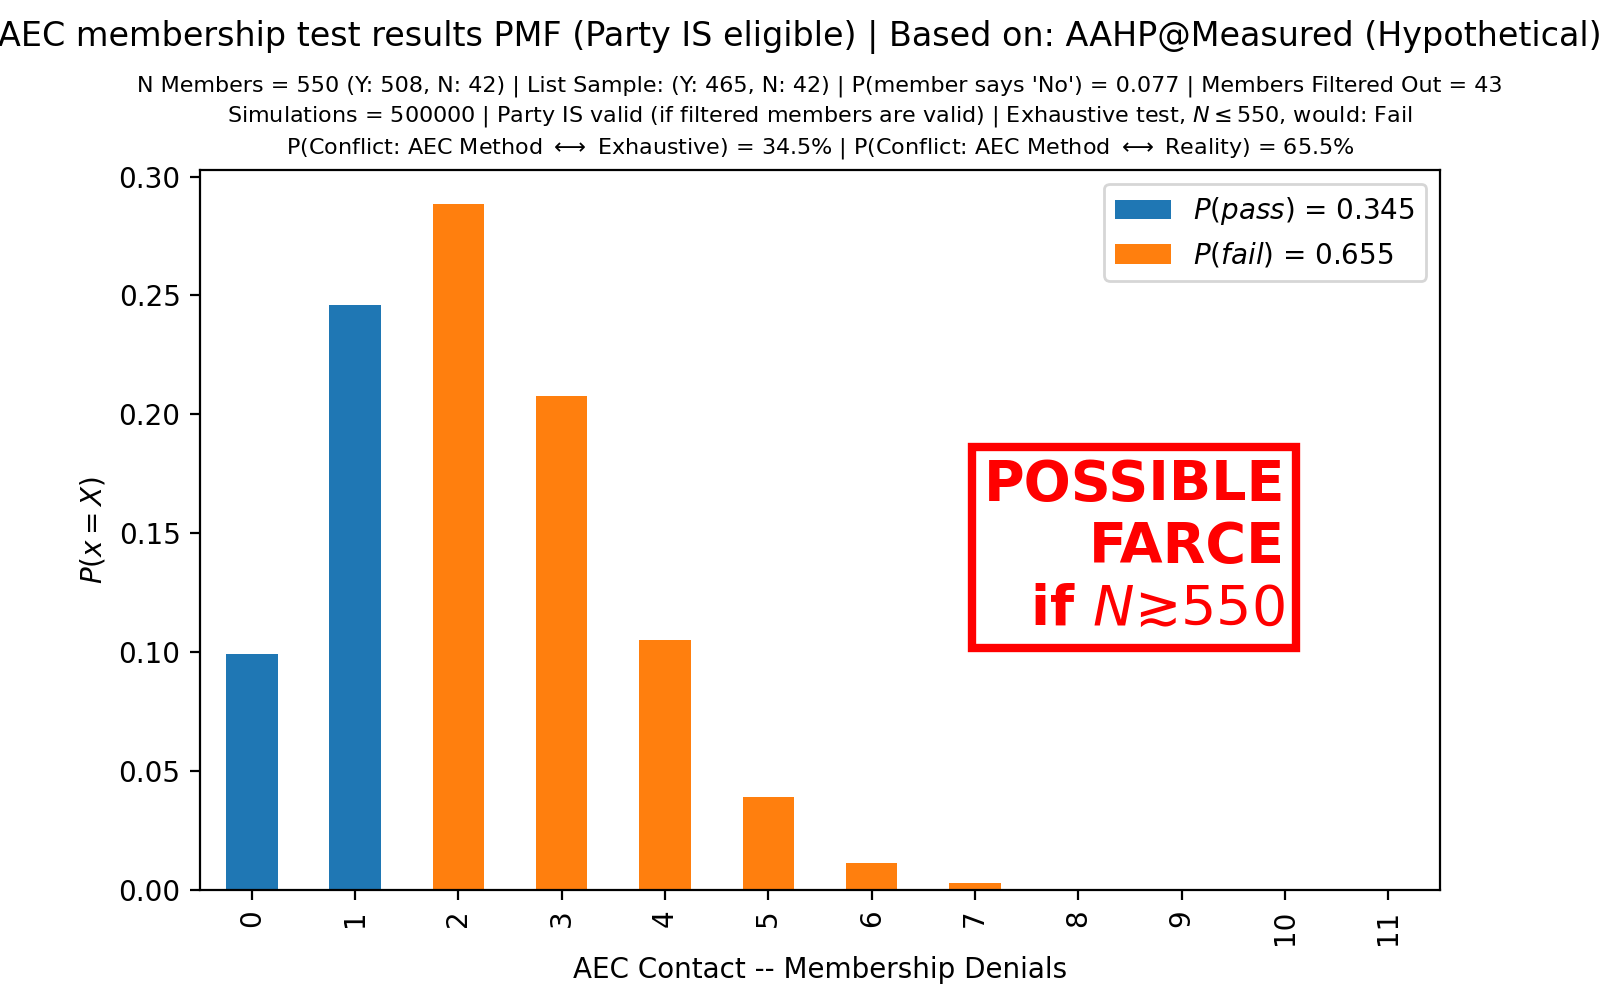
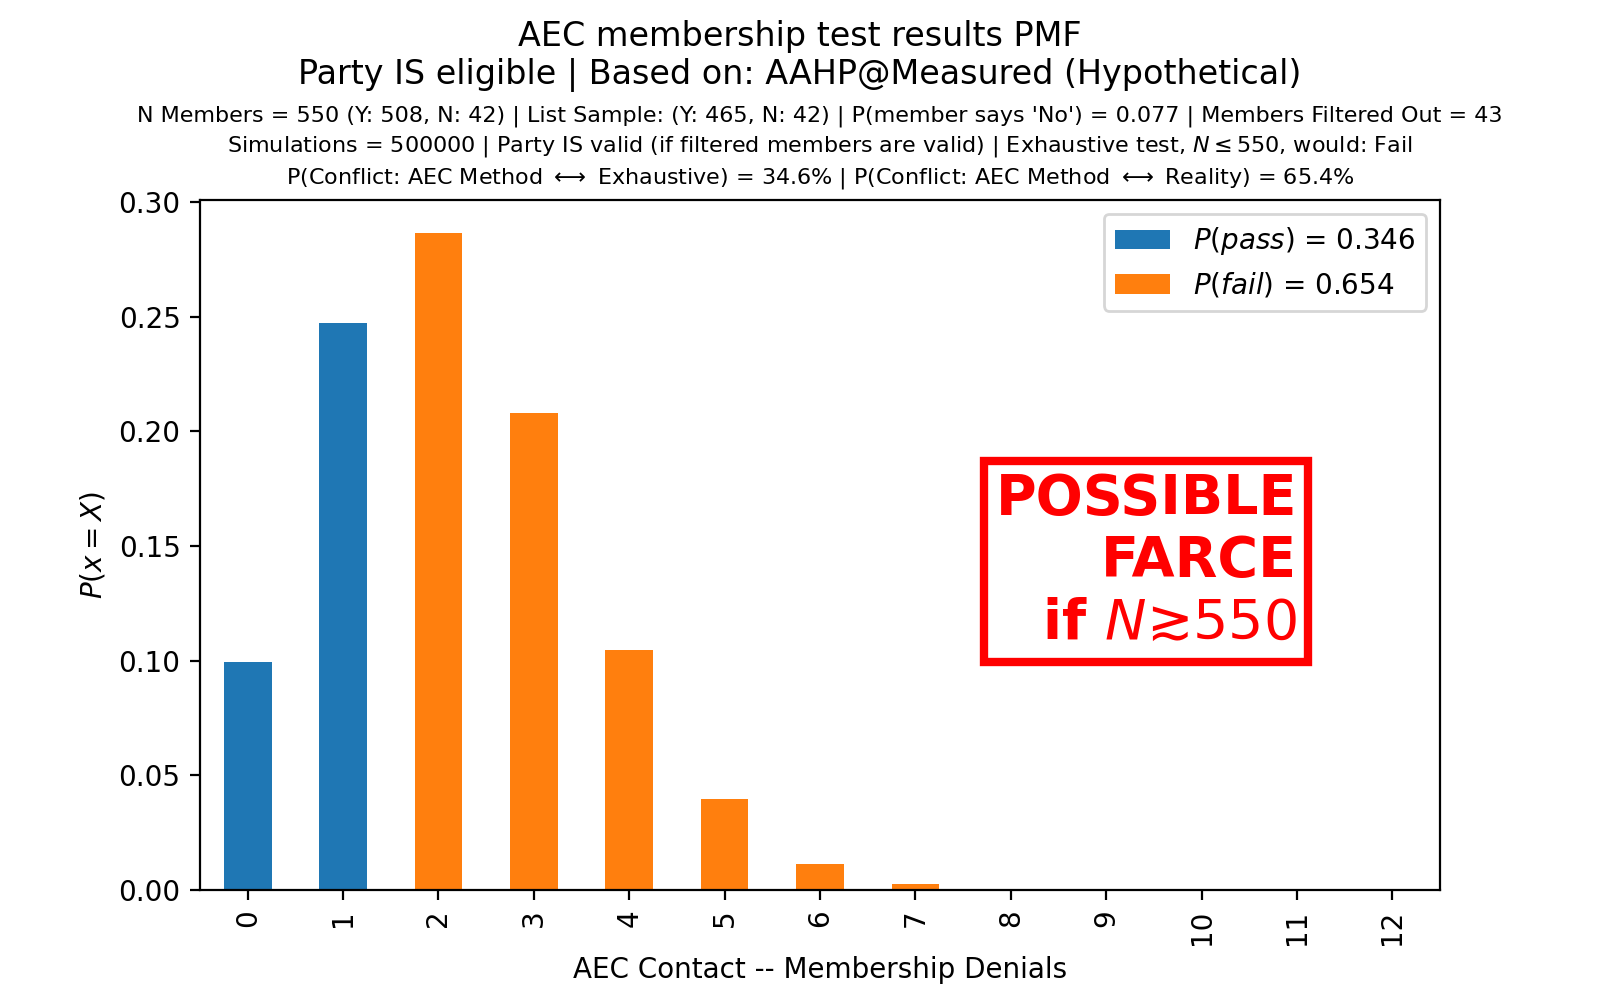
well, I think we can conclude that this shit's fucked.

diff --git a/main.py b/main.py
@@ -135,6 +135,19 @@ def lookup_aec_testing_parameters(sample_size, members_required: int):
     541 47 6
     548 50 7
     550 50 7
+    https://web.archive.org/web/20110220143705/http://www.aec.gov.au/Parties_and_Representatives/Party_Registration/Registration_Decisions/registration-tests.htm
+    > The table below is an extract from a table based on a formula provided by the Australian Bureau of Statistics, giving approximately a 10% risk of refusing a party which has 500 members and a 2% risk of registering a party with only 400 members.
+    Eligible membership 	Size of random sample 	Denials permitted 	Confirmations required
+    500 	18 	0 	18
+    505 	21 	1 	20
+    515 	26 	2 	24
+    520 	29 	2 	27
+    525 	32 	3 	29
+    530 	35 	4 	31
+    535 	37 	4 	33
+    540 	40 	5 	35
+    545 	43 	5 	38
+    550 	47 	6 	41
     '''
     testing_ranges = {
         1500: AEC_TESTING_RANGES,
@@ -170,8 +183,8 @@ class RunSpec:
         return self.total_members, self.failure_rate, self.sample_size, self.n_members_removed
 
     def title_line(self, party_name: Optional[str] = None):
-        is_valid = self.total_members * (1 - self.failure_rate) >= self.min_list_limit
-        return f"AEC membership test results PMF (Party {if_else(is_valid, 'IS', 'IS NOT')} eligible)" + if_else(party_name, f" | Based on: {party_name}", "")
+        is_valid = self.n_real_members >= self.min_list_limit
+        return f"AEC membership test results PMF\nParty {if_else(is_valid, 'IS', 'IS NOT')} eligible" + if_else(party_name, f" | Based on: {party_name}", "")
 
     @property
     def max_list_limit(self):
@@ -328,7 +341,7 @@ def run(trial_pool: pool.Pool, n_trials: int, run_spec: RunSpec, graph_title=Non
          ]) \
         # + "\n"
     plt.title(title, fontdict=dict(fontsize=8), linespacing=1.4)
-    plt.subplots_adjust(top=0.83)
+    plt.subplots_adjust(top=0.80)
     plt.legend()
 
     if is_farce:
@@ -419,10 +432,8 @@ def aec(n_trials, show, jobs, force):
     # _run(RunSpec(511*3, 11/511, 511*3, 0), party_name="SBP@Threshold (Scaled)")
 
     # https://aec.gov.au/Parties_and_Representatives/Party_Registration/Deregistered_parties/files/statement-of-reasons-child-protection-party-s137-deregistration.pdf
-    # add 20% bonus b/c they were at limit of 550
-    # _run(RunSpec(550*3 * 12//10, 10/50, 550*3, 2*3), party_name="CPP@Measured (Scaled + Limit Bonus)")
-    # _run(RunSpec(550*3 * 12//10, 50/550, 550*3, 2*3), party_name="CPP@Threshold (Scaled + Limit Bonus)")
-    # _run(RunSpec(550 * 12//10, 10/50, 550, 2, 500), party_name="CPP@Measured", farce_extra="SUSPECTED")
+    # add bonus b/c they were at limit of 550
+    # 2021
     _run(RunSpec(550 * 91//80, 10/50, 550, 2, 500), party_name="CPP@Measured", farce_extra="SUSPECTED")
 
     # https://aec.gov.au/Parties_and_Representatives/Party_Registration/Deregistered_parties/files/statement-of-reasons-australian-workers-party-s-137-deregistration.pdf
@@ -432,11 +443,8 @@ def aec(n_trials, show, jobs, force):
     # # _run(RunSpec(550*3 * 12//10, xxx/550, 550*3, xx*3), party_name="AWP@Threshold (Scaled + Limit Bonus)")
 
     # https://aec.gov.au/Parties_and_Representatives/Party_Registration/Deregistered_parties/files/statement-of-reasons-seniors-united-party-of-australia-s137-deregistration.pdf
-    # add 20% bonus for hitting limit
-    # _run(RunSpec(550*3 * 12//10, 9/44, 550*3, 11*3), party_name="SUP@Measured (Scaled+Limit Bonus)")
-    # _run(RunSpec(550*3 * 12//10, 5/55, 550*3, 11*3), party_name="SUP@Threshold (Scaled+Limit Bonus)")
-    # _run(RunSpec(550 * 12//10, 9/44, 550, 11, 500), party_name="SUP@Measured", farce_extra="SUSPECTED")
-    # _run(RunSpec(550 * 92//80, 9/44, 550, 11, 500), party_name="SUP@Measured", farce_extra="SUSPECTED")
+    # add bonus for hitting limit
+    # 2021
     _run(RunSpec(629, 9/44, 550, 11, 500), party_name="SUP@Measured", farce_extra="SUSPECTED")
 
     # mb (but unlikely with so many denials): no free tax (https://www.aec.gov.au/Parties_and_Representatives/Party_Registration/Registration_Decisions/2019/statement-of-reasons-the-no-tax-free-electricity.com-refusal.pdf)
@@ -449,13 +457,13 @@ def aec(n_trials, show, jobs, force):
 
     # https://www.aec.gov.au/Parties_and_Representatives/Party_Registration/Registration_Decisions/2017/sor-australian-affordable-housing-party.pdf
     # possible farce initially
-    # note:
+    # note: table of max denials might have been different
     # final list between 511 and 503? avg 507
     _run(RunSpec(550, 2/26, 550, 550-507, 500), party_name="AAHP@Measured (Hypothetical)", farce_extra="POSSIBLE")
 
     # https://www.aec.gov.au/Parties_and_Representatives/Party_Registration/Registration_Decisions/2017/sor-the-communists.pdf
     # note: unsure of acceptable number of denials
-    _run(RunSpec(708, 10/34, 550, 550-515, 500), party_name="Commies@Measured (Hypo7l)", farce_extra="POSSIBLE")
+    _run(RunSpec(708, 10/34, 550, 550-515, 500), party_name="Commies@Measured (Hypothetical)", farce_extra="POSSIBLE")
 
     # https://www.aec.gov.au/Parties_and_Representatives/party_registration/Registration_Decisions/2013/5204.htm
     # cheaper petrol party
@@ -463,10 +471,7 @@ def aec(n_trials, show, jobs, force):
 
     # https://www.aec.gov.au/Parties_and_Representatives/party_registration/Registration_Decisions/2010/3976.htm
     # seniors action movement
-    # _run(RunSpec(550 * 12//10, 5/37, 550, 15, 500), party_name="SAM", farce_extra="SUSPECTED")
-    # _run(RunSpec(550 * 11//10, 5/37, 550, 15, 500), party_name="SAM", farce_extra="SUSPECTED")
-    # _run(RunSpec(550 * 43//40, 5/37, 550, 15, 500), party_name="SAM", farce_extra="SUSPECTED")
-    _run(RunSpec(578, 5/37, 550, 15, 500), party_name="SAM", farce_extra="SUSPECTED")
+    _run(RunSpec(578, 5/37, 550, 15, 500), party_name="SAM@Measured", farce_extra="SUSPECTED")
 
 
 if __name__ == "__main__":

diff --git a/README.md b/README.md
@@ -20,7 +20,7 @@ Therefore, it is reasonable to conclude, for those cases, that the methodology i
 
 **Note: I am not accusing the AEC of doing the rigging; just proving that the method *is* rigged.**
 
-To date, there is 1 known incident of a farce and *at least* 2 suspected incidents.
+To date, there is 1 known incident of a farce and *at least* 4 suspected incidents.
 <!-- There may be many more as the results of most membership tests are not available.
 (An FOI request may solve this.) -->
 
@@ -58,9 +58,14 @@ FOI:
 - all policy documents regarding the statistical measures by which the results of a membership test are judged (i.e., the policy documents that are based on ABS recommendations regarding the number of members contacted and the threshold of maximum denials received).
 - all ABS recommendations and associated communications (with the AEC) regarding the AEC's membership testing process.
 - all complaints (including expressions of concern) from anyone outside the AEC regarding the fairness, integrity, and/or validity of the membership testing process; communications regarding such complaints (including but not limited to those between AEC staff, AEC and ABS staff, AEC and APH staff, AEC and parliamentarians, and AEC and parliamentarians' staff); policy documents changed as a result of such complaints; the prior version of each policy document that was changed as a result of such complaints.
-- all documents, including computer code, regarding the mathematical/statistical elements (e.g., foundations, 'working out', justification for certain limits and/or parameters of the method, confidence intervals, how to apply results, etc) of the membership testing procedure held by the AEC.
+- all documents, including computer code and spreadsheets (including embedded formulas), regarding the mathematical/statistical elements (e.g., foundations, 'working out', justification for certain limits and/or parameters of the method, confidence intervals, calculations, how to apply results, etc) of the membership testing procedure held by the AEC, including all past, present, planned, experimental, considered, otherwise never-implemented, and abandoned versions.
 - all 3rd party reviews, audits, or opinions of the AEC's testing procedure that were commissioned by the AEC.
 - all communication with 3rd parties commissioned by the AEC for said reviews, audits, or opinions of the AEC's testing procedure.
+- all documents and communications concerning the reasoning, motivation, and design goals of the membership testing process.
+- all documents and communications regarding the removal of the "Random sample sizes for membership testing" table from the web page http://www.aec.gov.au/Parties_and_Representatives/party_registration/Registration_Decisions/registration-tests.htm which occurred between 2012-05-11 and 2013-07-02, as indicated by:
+  - https://web.archive.org/web/20120511194720/http://www.aec.gov.au/Parties_and_Representatives/party_registration/Registration_Decisions/registration-tests.htm
+  - https://web.archive.org/web/20130702172124/http://www.aec.gov.au/Parties_and_Representatives/party_registration/Registration_Decisions/registration-tests.htm#membership
+- all AEC documents and internal communication regarding concerns about limiting the size of membership lists for the purpose of membership testing.
 -->
 
 * [AEC's Notice to Flux (with results)](https://xertrov.github.io/aec-membership-test-simulator/docs/BDLPN0-aec-flux-jan-13_unencrypted.pdf)
@@ -105,6 +110,18 @@ Parameters are: number of trials in the simulation, the population size of membe
 
 In the case of Flux's recent membership audit, the simulation shows that -- *on the assumption that Flux is an eligible party*, and that 17% of members provided will respond "No" -- there is a ~72% chance of the AEC reaching a *false negative* result. In such a case, overall Flux would have over 3,800 members that respond "Yes" (or do not respond). See <a href="https://xertrov.github.io/aec-membership-test-simulator/png/aec-test-sim-FARCE-N500000-m4680-f796-s1649-r24-flux.png">Fig 1</a>.
 
+What if we repeat the exercise? How many membership tests would be required to reach a positive result 90% of the time (i.e., 10% of the time Flux fails every test)?
+
+| Confidence | Tests Required for 1 success |
+|---|---|
+| 90% | 8 |
+| 95% | 10 |
+| 99% | 15 |
+
+So, 8 complete tests (of 1650 members randomly sampled from Flux's list of 4680) would be required to reach 1 successful test, 90% of the time.
+
+### What happens if Flux gains more members?
+
 Moreover, say that Flux is gaining members faster than it is losing them. ('Losing' members means that they will now answer "No" but do not revoke their membership.) It turns out that this makes the AEC's methodology *less likely to succeed.* See <a href="https://xertrov.github.io/aec-membership-test-simulator/png/aec-test-sim-FARCE-N500000-m5616-f1264-s1650-r0-flux+gain20%lose10%.png">Fig 2</a>, [Example 2.1](https://xertrov.github.io/aec-membership-test-simulator/png/aec-test-sim-FARCE-N500000-m5616-f1264-s1650-r24-flux+gain20%lose10%.png), [Example 2.2 (Filtered=0)](https://xertrov.github.io/aec-membership-test-simulator/png/aec-test-sim-FARCE-N500000-m9360-f2354-s1650-r0-flux+gain100%lose33%.png), [Example 2.3 (Filtered=24)](https://xertrov.github.io/aec-membership-test-simulator/png/aec-test-sim-FARCE-N500000-m9360-f2354-s1650-r24-flux+gain100%lose33%.png).
 
 ### **The system is rigged. It's a farce.**
@@ -144,8 +161,8 @@ Say 50% of Flux's 4680 members submitted (as part of our objection to the AEC's 
 
 ## Suspected Farces
 
-Detecting previous farces is difficult because the AEC does not record the number of members a party *could* offer in support of their validity.
-Instead, we only know the number of members that were submitted, which is always &lt;= 1650.
+Detecting previous farces is difficult because the AEC does not publish the results of membership tests and, too my knowledge, does not record or ask for the number of members a party *could* offer in support of their validity.
+Instead, we only know the number of members that were submitted, which is always &lt;= 1650 (or the limit in effect at the time), and we only know this when the AEC has published a statement of reasons which is only done when there is a request for review. If a party just gives up, or otherwise misses the deadline, then we don't hear about it and thus cannot evaluate whether a farce occurred.
 
 *Note: these cases occurred prior to the September 2021 increase in required members. Therefore they are judged against the previous requirements -- the test method was practically the same, the only difference being that it was calibrated for membership lists of 500-550 instead of 1500-1650.*
 
@@ -153,14 +170,22 @@ Since parties sometimes *max out* the number of members they may provide, the on
 
 Therefore, parties are assumed to have *just enough* excess capacity in additional members to be eligible, and that those extra members *could* have been provided.
 
+### Excess Capacity Explanation
+
+Excess capacity here refers to additional members that, if not for the AEC's limit, a party could provide -- expressed as a percentage of the limit. If a party requires 10% excess capacity, and the limit of a membership list is 1650, then that party must be capable of providing a list of 1815 members that a list of 1650 members is randomly sampled from.
+
 For comparison: in Flux's case, we had 3030 additional members (excess capacity of 184%) -- excluding those that we could not validate. The AEC is sometimes able to validate members that we cannot, and we have at least 4285 additional members that we could contact with a request for them to update their details.
 
 What about cases where the member list submitted had a large number of duplicates? It is not safe to assume the absence of a farce in these cases: maintaining membership lists is difficult. In my case, I wrote **thousands of lines** of custom code to assist Flux in managing our member list -- and the proportion of our list that is automatically matched against the electoral roll is proof of this. But, even with multiple checks for duplicates (matching phone numbers, emails, first and last names, etc), still we would occasionally get duplicates. These stragglers were usually found through a manual process before submission. At some point it just isn't worth worrying about. *However*, due to the ambiguity of these cases (there is only 1 case I know of), this document will exclude them.
 
-The two cases are:
+### The Suspected Farces
 
 1. (Fig 4) [30 June 2021 -- deregistration of Child Protection Party under s 137(6)](https://aec.gov.au/Parties_and_Representatives/Party_Registration/Deregistered_parties/files/statement-of-reasons-child-protection-party-s137-deregistration.pdf) ([mirror](docs/statement-of-reasons-child-protection-party-s137-deregistration.pdf)) -- excess capacity of 13.4% required
 2. (Fig 5) [9 March 2021 -- deregistration of Seniors United Party under s 137(6)](https://aec.gov.au/Parties_and_Representatives/Party_Registration/Deregistered_parties/files/statement-of-reasons-seniors-united-party-of-australia-s137-deregistration.pdf) ([mirror](docs/statement-of-reasons-seniors-united-party-of-australia-s137-deregistration.pdf)) -- excess capacity of 14.4% required
+3. (Fig 6) [7 November 2013 -- refusal to register of Cheaper Petrol Party](https://www.aec.gov.au/Parties_and_Representatives/party_registration/Registration_Decisions/2013/5204.htm) ([mirror](https://web.archive.org/web/20140124195635/https://www.aec.gov.au/Parties_and_Representatives/party_registration/Registration_Decisions/2013/5204.htm)) -- excess capacity of 8.2% required
+4. (Fig 7) [12 November 2010 -- refusal to register of Seniors United Party](https://www.aec.gov.au/Parties_and_Representatives/party_registration/Registration_Decisions/2010/3976.htm) ([mirror](https://web.archive.org/web/20140212151106/http://www.aec.gov.au/Parties_and_Representatives/party_registration/Registration_Decisions/2010/3976.htm)) -- excess capacity of 5.1% required
+
+Note, the `@Measured` in the titles of the following graphs indicates that the failure rate is calculated directly from AEC reports of the ratio of membership denials to membership contacts.
 
 <!--
 Possible more:
@@ -176,7 +201,7 @@ Possible more:
     <img src="https://xertrov.github.io/aec-membership-test-simulator/png/aec-test-sim-FARCE-N500000-m625-f125-s550-r2-cpp_measured.png" />
     <br>
     <em>
-        <a href="https://xertrov.github.io/aec-membership-test-simulator/png/aec-test-sim-FARCE-N500000-m625-f125-s550-r2-cpp_measured.png">Fig 4</a>: The deregistration of CPP on 30 June 2021 is suspected to have been a farce.</em>
+        <a href="https://xertrov.github.io/aec-membership-test-simulator/png/aec-test-sim-FARCE-N500000-m625-f125-s550-r2-cpp_measured.png">Fig 4</a>: The deregistration of Child Protection Party on 30 June 2021 is suspected to have been a farce.</em>
 </p>
 
 ---
@@ -189,6 +214,33 @@ Possible more:
 </p>
 
 ---
+
+<p align="center">
+    <img src="https://xertrov.github.io/aec-membership-test-simulator/png/aec-test-sim-FARCE-N500000-m595-f95-s550-r1-cpp2013_measured.png" />
+    <br>
+    <em>
+        <a href="https://xertrov.github.io/aec-membership-test-simulator/png/aec-test-sim-FARCE-N500000-m595-f95-s550-r1-cpp2013_measured.png">Fig 6</a>: The refusal to register Cheaper Petrol Party on 7 November 2013 is suspected to have been a farce.</em>
+</p>
+
+---
+
+<p align="center">
+    <img src="https://xertrov.github.io/aec-membership-test-simulator/png/aec-test-sim-FARCE-N500000-m578-f78-s550-r15-sam_measured.png" />
+    <br>
+    <em>
+        <a href="https://xertrov.github.io/aec-membership-test-simulator/png/aec-test-sim-FARCE-N500000-m578-f78-s550-r15-sam_measured.png">Fig 7</a>: The refusal to register SAM on 12 November 2010 is suspected to have been a farce.</em>
+</p>
+
+---
+
+<!-- ## Potential Farces -->
+
+<!--
+## Feedback Between AEC Policy and Party Behavior
+-->
+
+
+
 
 
 <!-- don't really need this bit. does it really help? -->
